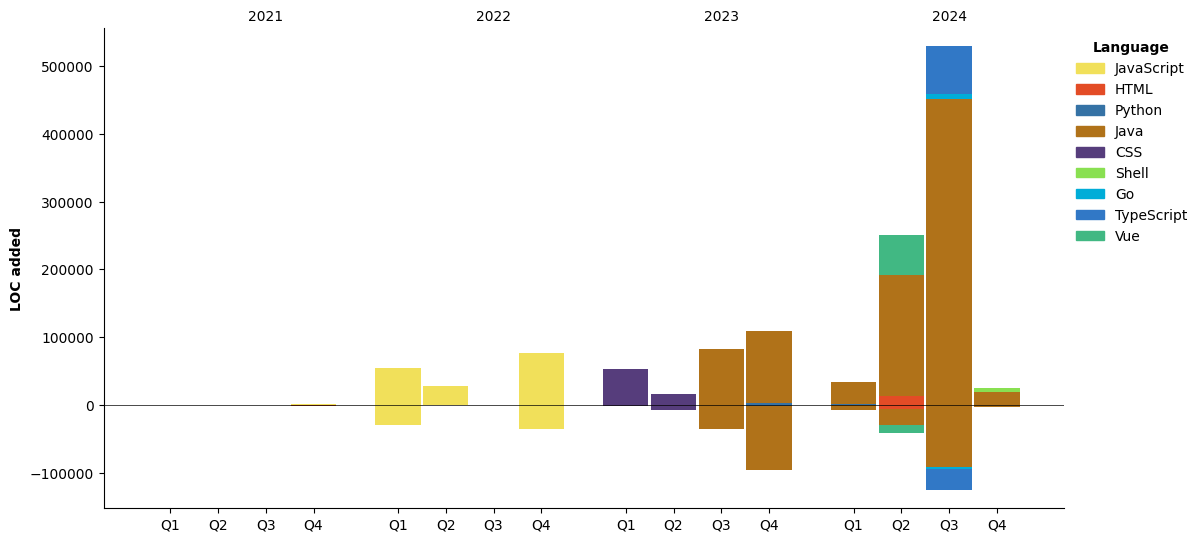
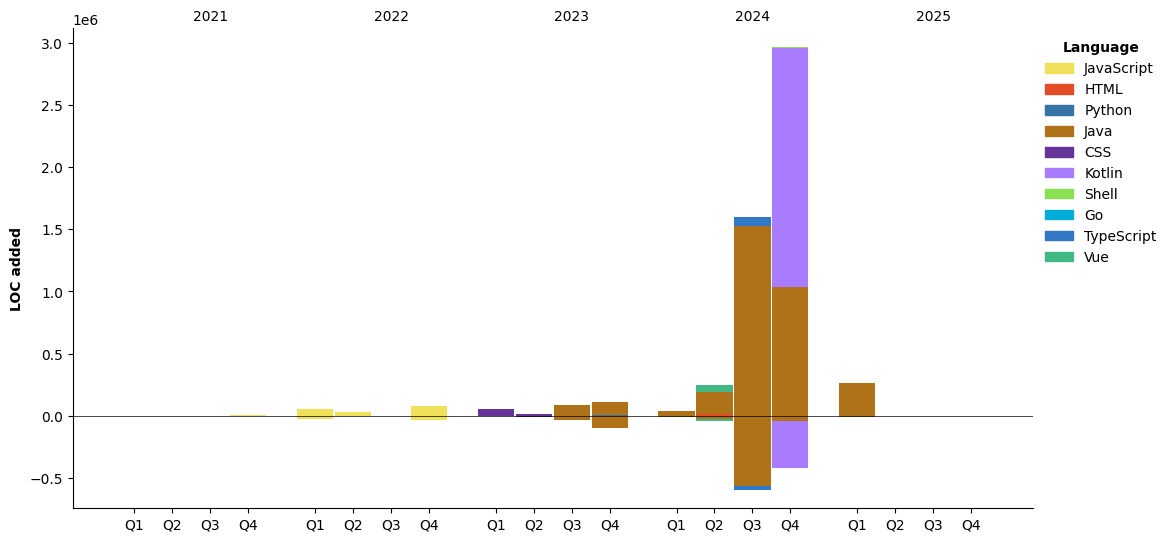
Updated with Dev Metrics

diff --git a/README.md b/README.md
@@ -124,28 +124,84 @@ start.spring.io(Bean Validation Description Change)
 <!-- ![willianrod's wakatime stats](https://github-readme-stats.vercel.app/api/wakatime?username=sihyunjojo&hide_progress=true&theme=dark) -->
 
 <!--START_SECTION:waka-->
-**저는 아침형 인간이에요. 🐤** 
+![Code Time](http://img.shields.io/badge/Code%20Time-354%20hrs%201%20min-blue)
+
+![Profile Views](http://img.shields.io/badge/Profile%20Views-15-blue)
+
+**🐱 My GitHub Data** 
+
+> 📦 77.4 kB Used in GitHub's Storage 
+ > 
+> 🏆 158 Contributions in the Year 2025
+ > 
+> 🚫 Not Opted to Hire
+ > 
+> 📜 33 Public Repositories 
+ > 
+> 🔑 9 Private Repositories 
+ > 
+**I'm an Early 🐤** 
 
 ```text
-🌞 아침                     14033 commits       ████░░░░░░░░░░░░░░░░░░░░░   15.84 % 
-🌆 낮　                     44966 commits       █████████████░░░░░░░░░░░░   50.76 % 
-🌃 저녁                     19892 commits       ██████░░░░░░░░░░░░░░░░░░░   22.46 % 
-🌙 밤　                     9691 commits        ███░░░░░░░░░░░░░░░░░░░░░░   10.94 % 
+🌞 Morning                14039 commits       ████░░░░░░░░░░░░░░░░░░░░░   15.83 % 
+🌆 Daytime                45012 commits       █████████████░░░░░░░░░░░░   50.76 % 
+🌃 Evening                19941 commits       ██████░░░░░░░░░░░░░░░░░░░   22.49 % 
+🌙 Night                  9691 commits        ███░░░░░░░░░░░░░░░░░░░░░░   10.93 % 
 ```
-📅 **제가 가장 생산적인 날은 목요일이에요.** 
+📅 **I'm Most Productive on Thursday** 
 
 ```text
-월요일                      16043 commits       █████░░░░░░░░░░░░░░░░░░░░   18.11 % 
-화요일                      12949 commits       ████░░░░░░░░░░░░░░░░░░░░░   14.62 % 
-수요일                      14935 commits       ████░░░░░░░░░░░░░░░░░░░░░   16.86 % 
-목요일                      18398 commits       █████░░░░░░░░░░░░░░░░░░░░   20.77 % 
-금요일                      18126 commits       █████░░░░░░░░░░░░░░░░░░░░   20.46 % 
-토요일                      3010 commits        █░░░░░░░░░░░░░░░░░░░░░░░░   03.40 % 
-일요일                      5121 commits        █░░░░░░░░░░░░░░░░░░░░░░░░   05.78 % 
+Monday                   16042 commits       █████░░░░░░░░░░░░░░░░░░░░   18.09 % 
+Tuesday                  12948 commits       ████░░░░░░░░░░░░░░░░░░░░░   14.60 % 
+Wednesday                14944 commits       ████░░░░░░░░░░░░░░░░░░░░░   16.85 % 
+Thursday                 18454 commits       █████░░░░░░░░░░░░░░░░░░░░   20.81 % 
+Friday                   18152 commits       █████░░░░░░░░░░░░░░░░░░░░   20.47 % 
+Saturday                 3010 commits        █░░░░░░░░░░░░░░░░░░░░░░░░   03.39 % 
+Sunday                   5133 commits        █░░░░░░░░░░░░░░░░░░░░░░░░   05.79 % 
+```
+
+
+📊 **This Week I Spent My Time On** 
+
+```text
+🕑 Time Zone: Asia/Seoul
+
+💬 Programming Languages: 
+Java                     18 hrs 7 mins       ██████████████████████░░░   88.08 % 
+Markdown                 1 hr 6 mins         █░░░░░░░░░░░░░░░░░░░░░░░░   05.39 % 
+YAML                     45 mins             █░░░░░░░░░░░░░░░░░░░░░░░░   03.72 % 
+SQL                      34 mins             █░░░░░░░░░░░░░░░░░░░░░░░░   02.81 % 
+Groovy                   0 secs              ░░░░░░░░░░░░░░░░░░░░░░░░░   00.00 % 
+
+🔥 Editors: 
+IntelliJ IDEA            20 hrs 34 mins      █████████████████████████   100.00 % 
+
+🐱💻 Projects: 
+c4-cometrue-assignment   19 hrs 59 mins      ████████████████████████░   97.19 % 
+josihyeon                34 mins             █░░░░░░░░░░░░░░░░░░░░░░░░   02.81 % 
+
+💻 Operating System: 
+Mac                      20 hrs 34 mins      █████████████████████████   100.00 % 
+```
+
+**I Mostly Code in Java** 
+
+```text
+Java                     26 repos            ██████████████░░░░░░░░░░░   55.32 % 
+HTML                     5 repos             ███░░░░░░░░░░░░░░░░░░░░░░   10.64 % 
+Python                   3 repos             ██░░░░░░░░░░░░░░░░░░░░░░░   06.38 % 
+Go                       1 repo              █░░░░░░░░░░░░░░░░░░░░░░░░   02.13 % 
+Shell                    1 repo              █░░░░░░░░░░░░░░░░░░░░░░░░   02.13 % 
 ```
 
 
 
+**Timeline**
+
+![Lines of Code chart](https://raw.githubusercontent.com/sihyunjojo/sihyunjojo/main/assets/bar_graph.png)
+
+
+ Last Updated on 30/04/2025 09:42:47 UTC
 <!--END_SECTION:waka-->
   
 <!--
